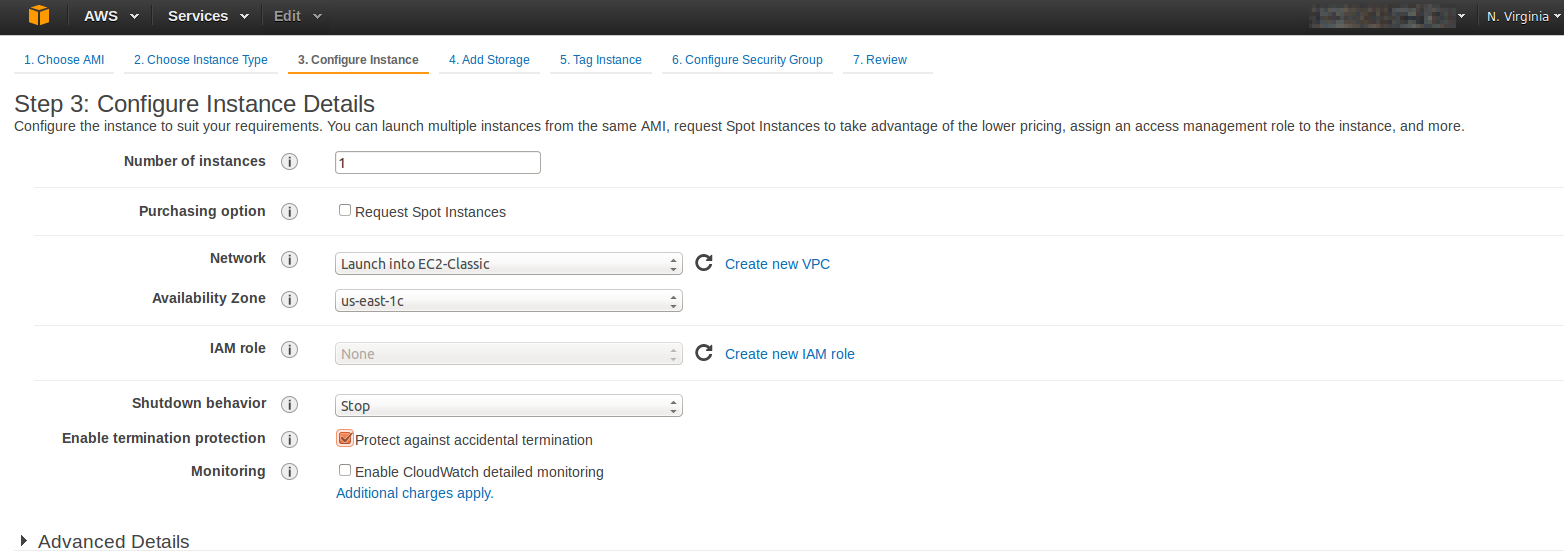
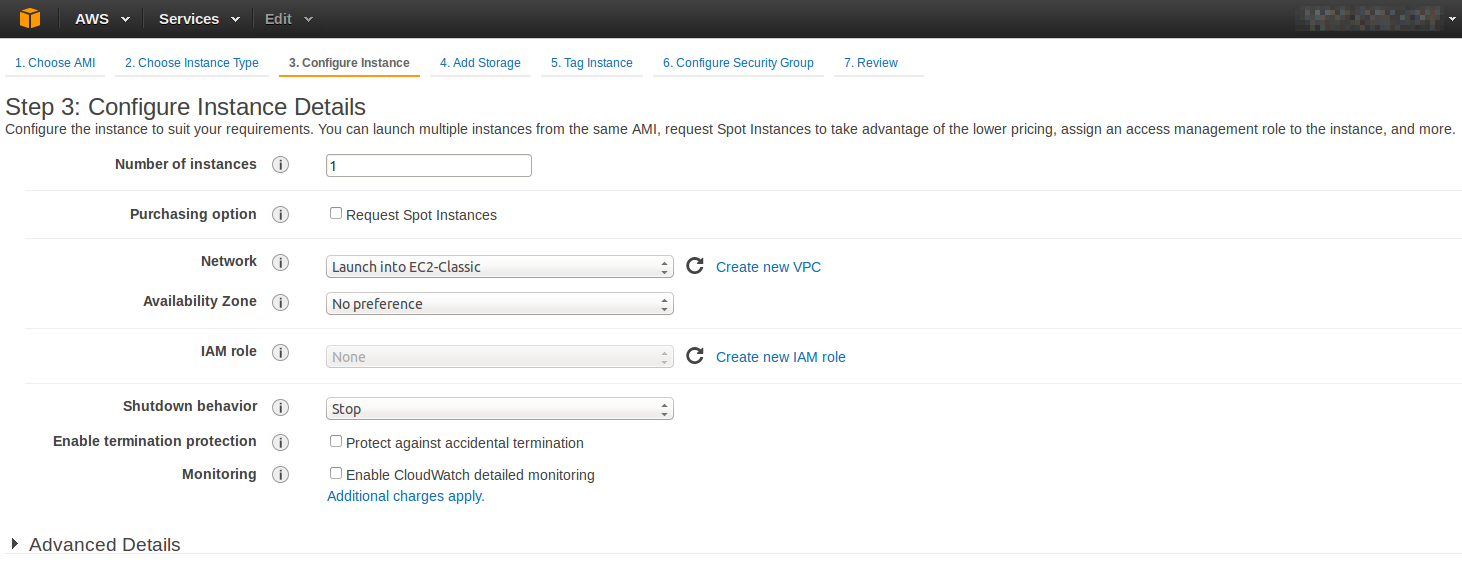
Show "enable termination protection" turned off

diff --git a/QuickStart.md b/QuickStart.md
@@ -28,8 +28,7 @@ Choosing an AMI (here, AMI ami-d05e75b8 was used)
 Choosing an m3.large instance type
 ![choosing an instance type](/images/2_Choose_Instance_Type.png?raw=true "Click for larger view")
 
-Configure your instance. If you want to use termination protection, this is the screen where you can enable it.
-<!-- TODO: screenshot with termination protection turned OFF and link to how to use it -->
+Configure your instance. If you want to use [termination protection](http://docs.aws.amazon.com/AWSEC2/latest/UserGuide/terminating-instances.html#Using_ChangingDisableAPITermination), this is the screen where you can enable it.
 ![Configuring your instance](/images/3_Configure_Instance.png?raw=true "Click for larger view")
 
 Setting up storage. 40 GB should be sufficient.
